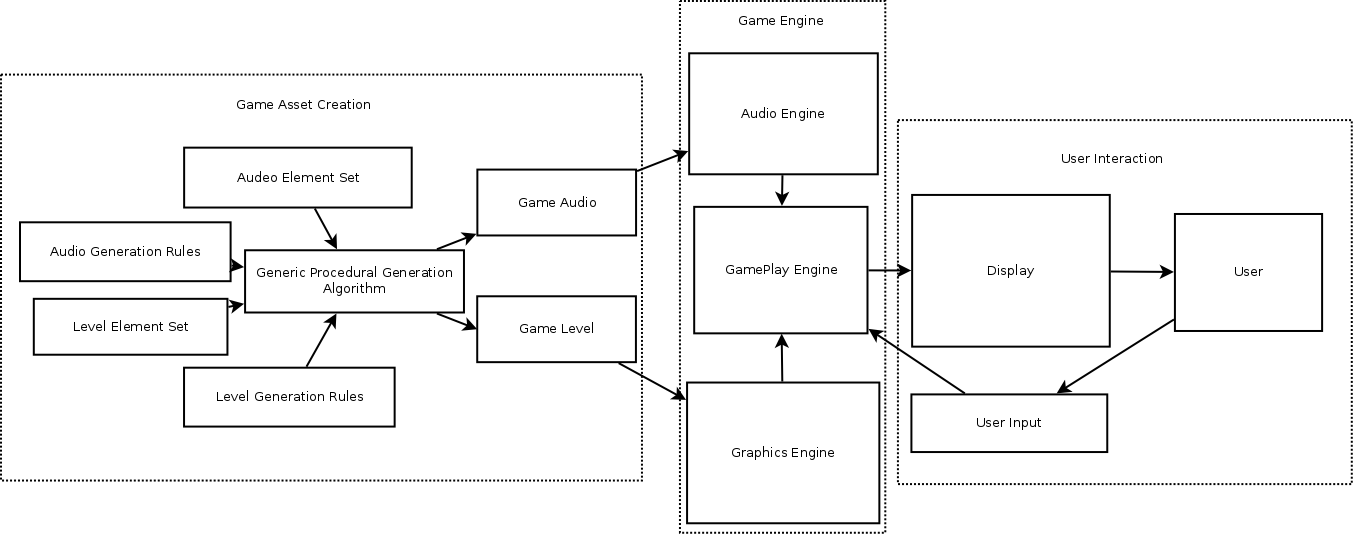
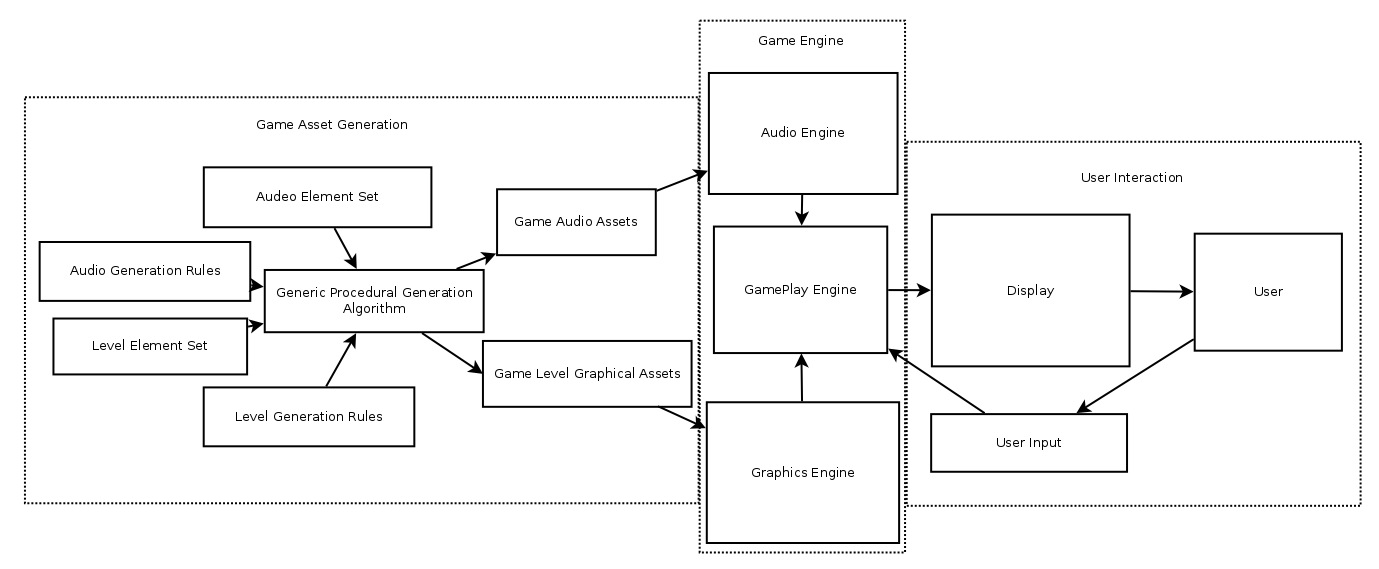
update diagram

diff --git a/README.md b/README.md
@@ -61,8 +61,16 @@ If you are using some other starting materails, explain what they are. Basically
 	
 ### Architecture Diagram
 ![Architecture Diagram](https://github.com/oplS16projects/Procedure-Lettuce-Tomato/blob/master/architecture_diagram.png)
-Architecture Elements (Diagram Right->Left)
-* Game Engine
+Game Engine
+* Audio Engine
+	* Organizes game audio assets and provides an interface to them for the Gameplay Engine.  Responsible for music and sound effects.
+* Graphics Engine
+	* Organizes game level graphical assets and provides an interface to them for the Gameplay Engine. Responsible for level setup and sprite animation.
+* Gameplay Engine
+	* Coordinates graphical and audio elements.
+	* Handles user input.
+Game Asset Generation
+
 
 
 ## Schedule
